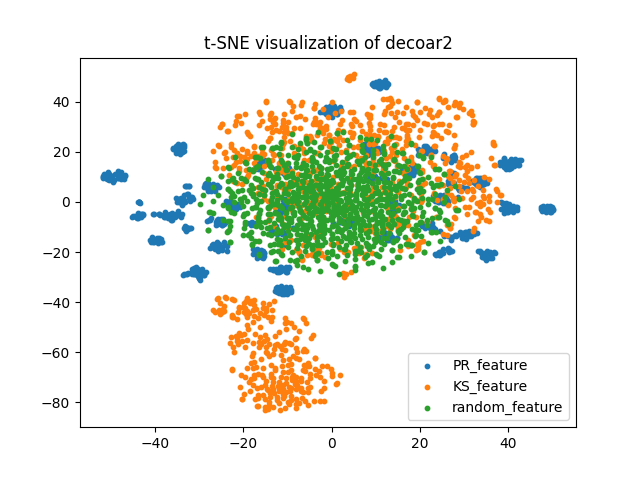
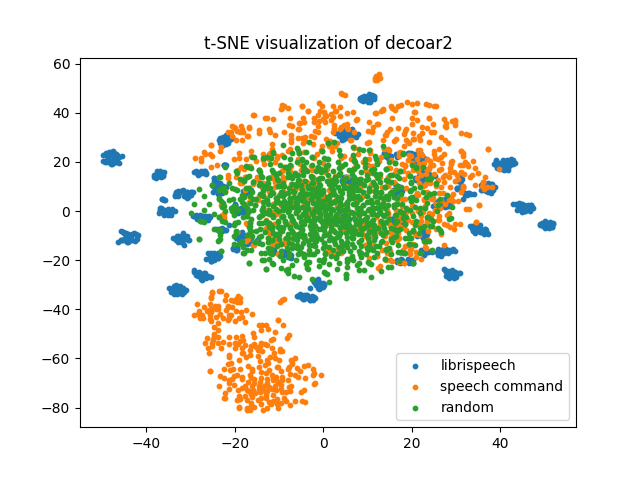
add swd and tsne

diff --git a/calculate_swd_distance.py b/calculate_swd_distance.py
@@ -1,0 +1,71 @@
+import numpy as np
+from geomloss import SamplesLoss
+from sklearn.manifold import TSNE
+from sklearn.decomposition import PCA
+import matplotlib.pyplot as plt
+import sys
+import io
+import ot as ot
+import pickle
+import matplotlib.pyplot as plt
+
+import warnings
+warnings.simplefilter(action='ignore', category=FutureWarning)
+
+class CPU_Unpickler(pickle.Unpickler):
+    def find_class(self, module, name):
+        if module == 'torch.storage' and name == '_load_from_bytes':
+            return lambda b: torch.load(io.BytesIO(b), map_location='cpu')
+        else:
+            return super().find_class(module, name)
+np.random.seed(42)
+
+def compute_distance(feat1, feat2):
+    """
+    Compute the sliced Wasserstein distance and t-SNE distance between the means
+    of two data distributions.
+
+    Args:
+        feat1 (np.ndarray): numpy array of shape (sample_num, m, n)
+        feat2 (np.ndarray): numpy array of shape (sample_num, n)
+
+    Returns:
+        swd_distance (float): the sliced Wasserstein distance between the means of feat1 and feat2
+        tsne_distance (float): the t-SNE distance between the means of feat1 and feat2
+    """
+    n = len(feat1)
+    a, b = np.ones((n,)) / n, np.ones((n,)) / n
+    seed = 42
+    n_projections = 50
+    swd_distance = ot.sliced.sliced_wasserstein_distance(feat1, feat2, a, b, n_projections, seed=seed)
+
+    return   swd_distance
+
+
+models = ["hubert", "wav2vec2", "decoar2"]#sys.argv[1]
+
+
+random_feature = np.random.rand(1001, 768)
+
+for model in models:
+    feat1_path = f"/home/virginiakm1988/s3prl/s3prl/result/KS_features/PR_{model}_baseline.pkl"
+    feat2_path = f"/home/virginiakm1988/s3prl/s3prl/result/KS_features/KS_{model}_baseline.pkl"
+
+    with open(feat1_path, "rb") as fp:   # Unpickling
+        pickle_feature_1 = CPU_Unpickler(fp).load()
+    with open(feat2_path, "rb") as fp:   # Unpickling
+        pickle_feature_2 = CPU_Unpickler(fp).load()
+    feat1 = np.asarray(pickle_feature_1)
+    feat1_lst = []
+    for idx,features in enumerate(feat1):
+        feat1_lst.append(np.median(features, axis=0))
+    feat1 = np.array(np.matrix(feat1_lst))
+    print(feat1.shape, "shape of feat1")
+    feat2 = np.median(np.asarray(pickle_feature_2), axis =1)
+    distance = compute_distance(feat1, feat2)
+    ks_random_distance = compute_distance(random_feature,feat2)
+    pr_random_distance = compute_distance(random_feature,feat1)
+    print("distacne of "+model+": "+str(distance))
+    print("ks vs random distacne of "+model+": "+str(ks_random_distance))
+    print("pr vs random distacne of "+model+": "+str(pr_random_distance))
+    #plot_scatter(feat1_reduced, feat2_reduced,normal_reduced, model)

diff --git a/calculate_tsne_distance.py b/calculate_tsne_distance.py
@@ -35,7 +35,7 @@ def compute_distance(feat1, feat2):
     
     n_components = 50 # number of dimensions for the reduced features
     pca = PCA(n_components=n_components)
-    tsne = TSNE(n_components=2, random_state=42, learning_rate="auto", n_iter=3000)
+    tsne = TSNE(n_components=2, random_state=42, learning_rate="auto", n_iter=5000)
 
     feat1_reduced = tsne.fit_transform(feat1)
     feat2_reduced = tsne.fit_transform(feat2)
@@ -76,9 +76,9 @@ for model in models:
     feat1 = np.asarray(pickle_feature_1)
     feat1_lst = []
     for idx,features in enumerate(feat1):
-        feat1_lst.append(np.mean(features, axis=0))
+        feat1_lst.append(np.median(features, axis=0))
     feat1 = np.matrix(feat1_lst)
-    feat2 = np.mean(np.asarray(pickle_feature_2), axis =1)
+    feat2 = np.median(np.asarray(pickle_feature_2), axis =1)
     feat1_reduced, feat2_reduced, tsne_distance = compute_distance(feat1, feat2)
     normal_reduced,_, ks_random_tsne_distance = compute_distance(random_feature,feat2)
     _,_, pr_random_tsne_distance = compute_distance(random_feature,feat1)
